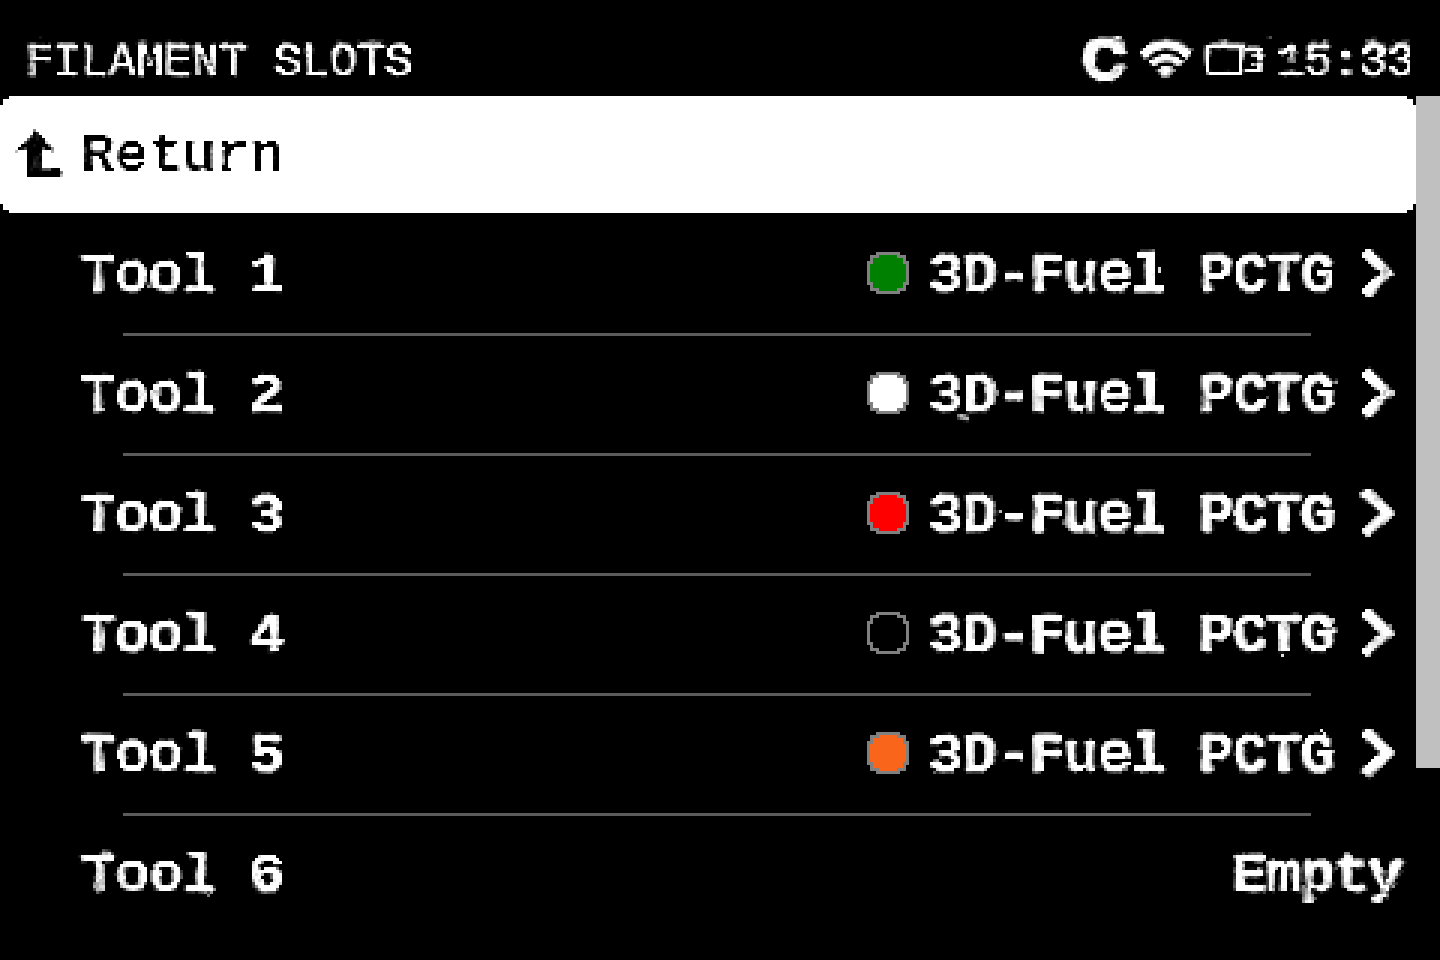
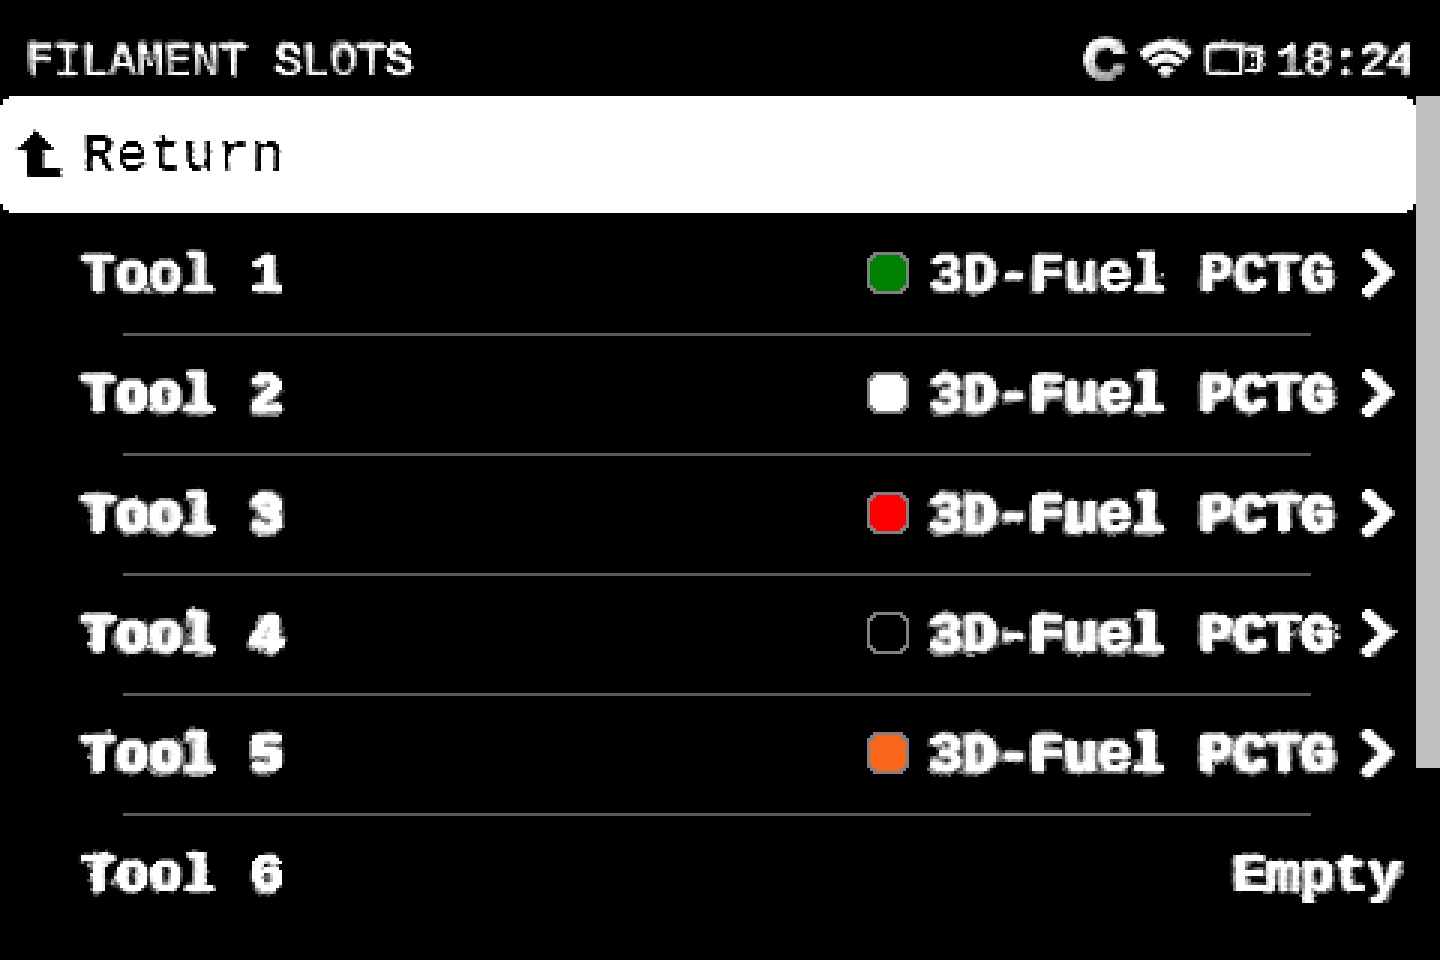
fixup! doc: Add a Filament Slots and Sync user guide with screenshots
The Filament Slots photo, the sync preview and the sidebar after
syncing are now from a real CORE One INDX. The photo is rebuilt with
the firmware's swatch shape (a 3.5 px corner radius, not round).

diff --git a/doc/Filament_Slots_and_Sync_User_Guide.md b/doc/Filament_Slots_and_Sync_User_Guide.md
@@ -73,7 +73,7 @@ the printer and shows a preview. Presets and extruder colors don't change until 
 **Apply**, but the sidebar hides the empty tools' filament lists as soon as the printer is read.
 Tool N is always extruder N.
 
-![The preview](images/fsync_sl_preview.jpg)
+![The preview](images/fsync_sl_preview.png)
 
 The **Preset** column says what Apply does for each extruder:
 
@@ -108,7 +108,7 @@ as user presets on this computer; they aren't added to Filament DB.
   hidden, and the rest are numbered. Untick **Hide empty extruders in the sidebar** in the preview
   to show them all. If a print uses an empty extruder, PrusaSlicer warns you.
 
-![After syncing: only the loaded tools, numbered](images/fsync_sl_sidebar_after.jpg)
+![After syncing: only the loaded tools, numbered](images/fsync_sl_sidebar_after.png)
 
 ## Good to know
 
